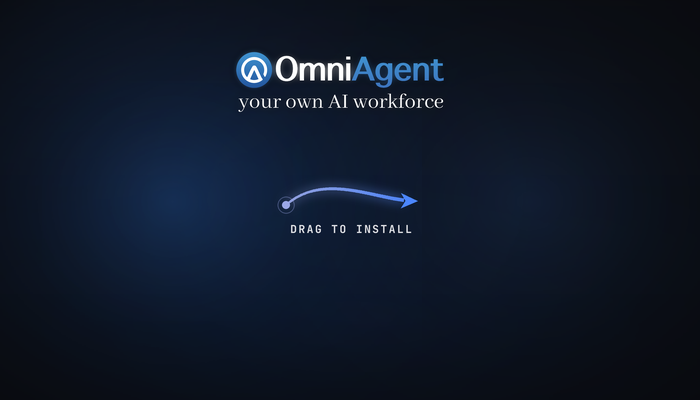
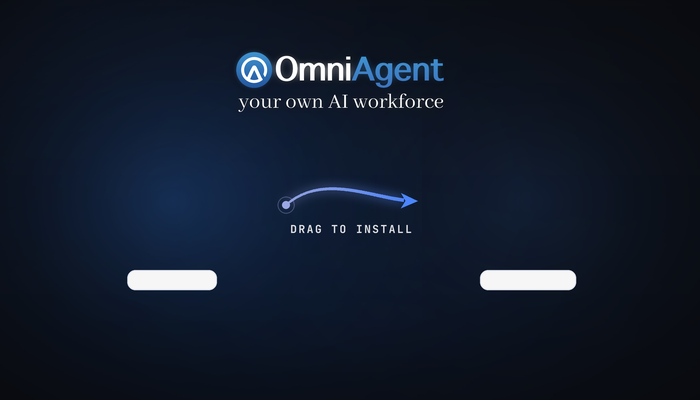
New DMG

Changed region(s): [[0.66, 0.66, 0.84, 0.75], [0.18, 0.66, 0.33, 0.75]]

diff --git a/src-tauri/dmg/make_dmg_background.py b/src-tauri/dmg/make_dmg_background.py
@@ -461,6 +461,25 @@ def draw_chrome(img: Image.Image) -> Image.Image:
     return Image.alpha_composite(img, layer)
 
 
+def draw_finder_label_backplates(img: Image.Image) -> Image.Image:
+    layer = Image.new("RGBA", img.size, (0, 0, 0, 0))
+    d = ImageDraw.Draw(layer)
+    f = font("Inter-Regular", 12.5)
+    for cx, label in ((ICON1_X, "OmniAgent"), (ICON2_X, "Applications")):
+        ty = ICON_Y + ICON_BOX / 2 + 15
+        tw = f.getlength(label) / SS
+        plate = [s(cx - tw / 2 - 12), s(ty - 14.0),
+                 s(cx + tw / 2 + 12), s(ty + 6.0)]
+        d.rounded_rectangle(
+            plate,
+            radius=s(8),
+            fill=rgba((255, 255, 255), 0.96),
+            outline=rgba((220, 226, 238), 1.0),
+            width=max(1, round(s(1.0))),
+        )
+    return Image.alpha_composite(img, layer)
+
+
 # --------------------------------------------------------------------------
 # Compose
 # --------------------------------------------------------------------------
@@ -469,6 +488,7 @@ def render() -> Image.Image:
     img = draw_field(img)
 
     img = draw_vignette(img)
+    img = draw_finder_label_backplates(img)
     img = draw_edge(img)
     img = draw_chrome(img)
     return img
